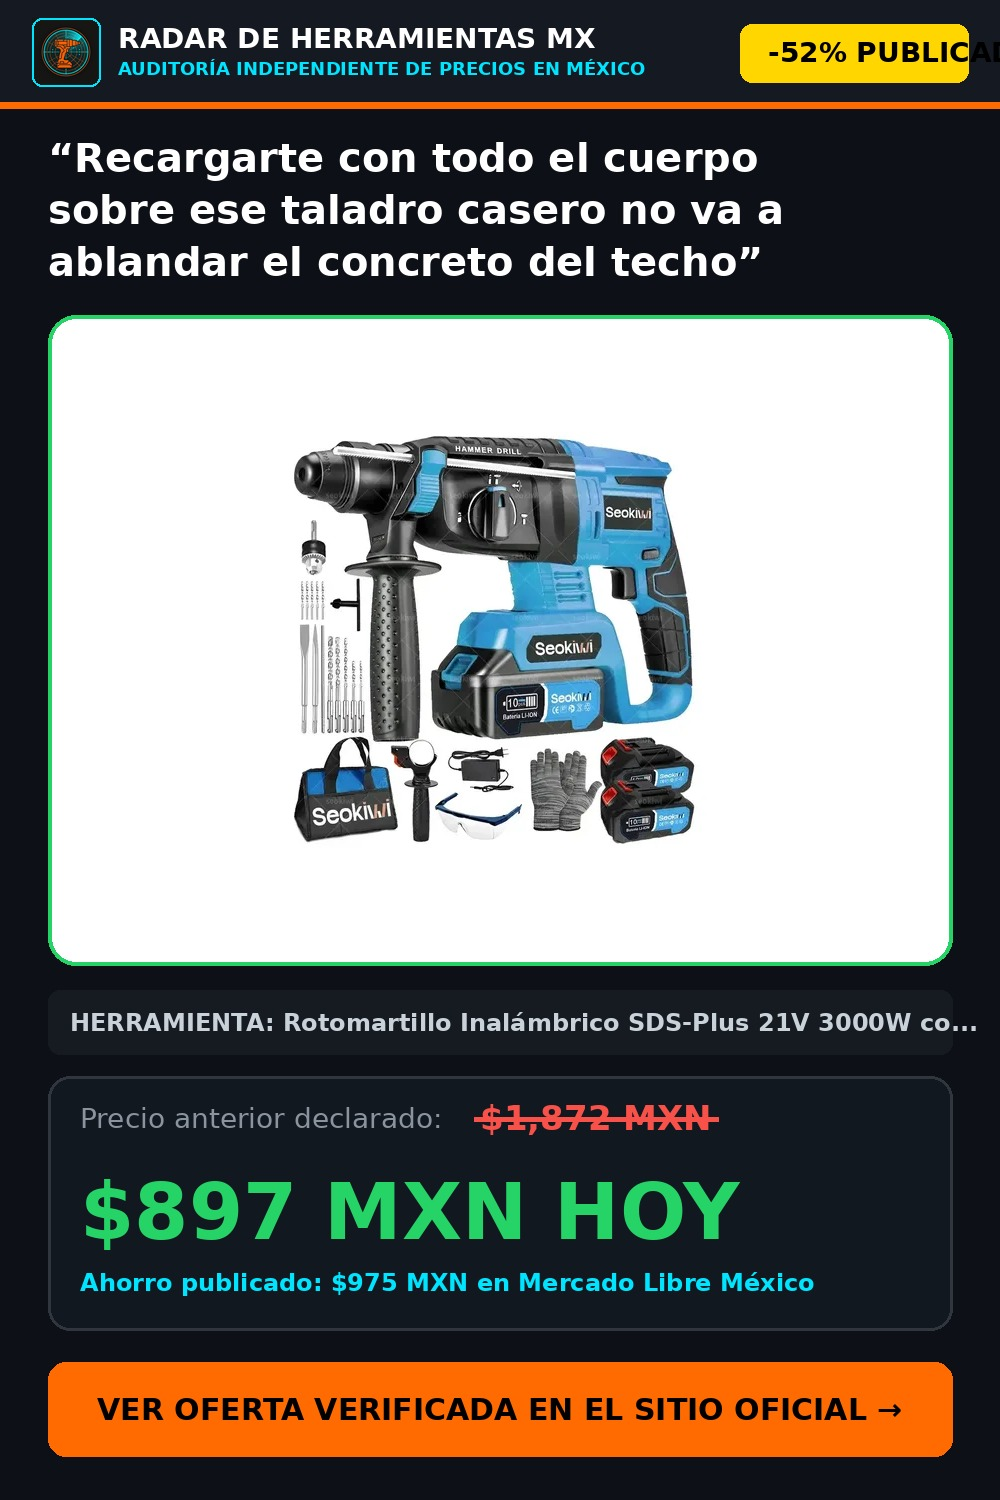
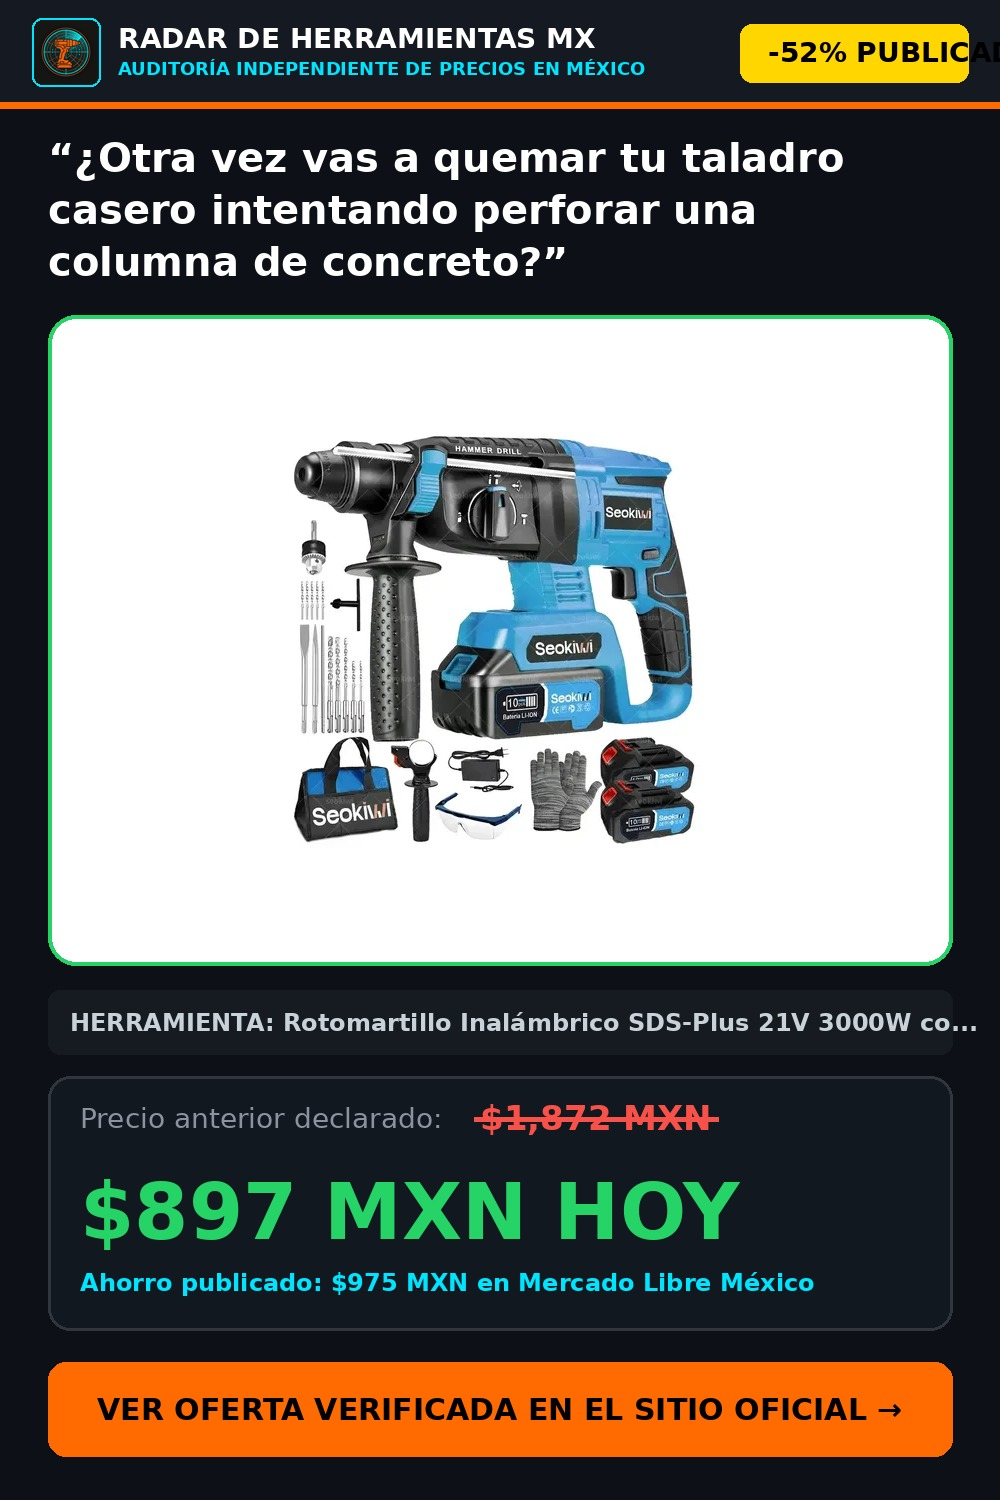
chore(portal): actualizar escaparate SEO, sitemap.xml y rss.xml

Changed region(s): [[0.062, 0.092, 0.837, 0.184]]

diff --git a/ofertas/rotomartillo-inalambrico-sds-plus-21v-3000w-con-2-baterias-mlm3486019046.html b/ofertas/rotomartillo-inalambrico-sds-plus-21v-3000w-con-2-baterias-mlm3486019046.html
@@ -4,16 +4,16 @@
   <meta charset="UTF-8">
   <meta name="viewport" content="width=device-width, initial-scale=1.0">
   <title>Rotomartillo Inalámbrico SDS-Plus 21V 3000W con 2 Baterías y Accesorios en Remate ($897 MXN | -52% PUBLICADO) — Radar Herramientas MX</title>
-  <meta name="description" content="Recargarte con todo el cuerpo sobre ese taladro casero no va a ablandar el concreto del techo. Baja de $1,872 a $897 MXN (-52% PUBLICADO). Precio registrado el 2026-11-10; confirma el actual en Mercado Libre.">
+  <meta name="description" content="¿Otra vez vas a quemar tu taladro casero intentando perforar una columna de concreto?. Baja de $1,872 a $897 MXN (-52% PUBLICADO). Precio registrado el 2026-11-10; confirma el actual en Mercado Libre.">
   <meta name="p:domain_verify" content="6c8cce62096e8179cbec3a3ea42580bd">
   <link rel="canonical" href="https://radar-herramientas-mx.github.io/ofertas/rotomartillo-inalambrico-sds-plus-21v-3000w-con-2-baterias-mlm3486019046.html">
   <meta property="og:type" content="product">
   <meta property="og:title" content="Rotomartillo Inalámbrico SDS-Plus 21V 3000W con 2 Baterías y Accesorios — Baja a $897 MXN (-52% PUBLICADO)">
-  <meta property="og:description" content="Recargarte con todo el cuerpo sobre ese taladro casero no va a ablandar el concreto del techo. Huele a carbones quemados, la broca ya se puso azul y apenas rascaste dos milímetros de losa. Para perforar trabes o ranurar tabique sin arrastrar cables por la escalera necesitas golpe neumático SDS-Plus real. Trae dos baterías de 21V y maletín de accesorios por 807 pesos, menos de lo que cuesta reemplazar el motor que estás por fundir.">
+  <meta property="og:description" content="¿Otra vez vas a quemar tu taladro casero intentando perforar una columna de concreto?. Guarda ya ese juguete humeante antes de que termines ensanchando el agujero del taquete con un clavo y un martillo. Para romper piedra o meter brocas SDS-Plus sin arrastrar extensiones por toda la azotea necesitas golpe real de 21V y dos baterías listas. Te cuesta menos de la mitad que en tienda y tus muñecas dejan de sufrir.">
   <meta property="og:image" content="https://http2.mlstatic.com/D_Q_NP_2X_938851-MLA107788266186_032026-AB.webp">
   <meta property="og:url" content="https://radar-herramientas-mx.github.io/ofertas/rotomartillo-inalambrico-sds-plus-21v-3000w-con-2-baterias-mlm3486019046.html">
   <meta name="twitter:card" content="summary_large_image">
-  <script type="application/ld+json">{"@context": "https://schema.org/", "@type": "Product", "name": "Rotomartillo Inalámbrico SDS-Plus 21V 3000W con 2 Baterías y Accesorios", "image": ["https://http2.mlstatic.com/D_Q_NP_2X_938851-MLA107788266186_032026-AB.webp"], "description": "Recargarte con todo el cuerpo sobre ese taladro casero no va a ablandar el concreto del techo. Huele a carbones quemados, la broca ya se puso azul y apenas rascaste dos milímetros de losa. Para perforar trabes o ranurar tabique sin arrastrar cables por la escalera necesitas golpe neumático SDS-Plus real. Trae dos baterías de 21V y maletín de accesorios por 807 pesos, menos de lo que cuesta reemplazar el motor que estás por fundir. Auditado contra 12 vendedores en México.", "sku": "MLM3486019046", "category": "Taller y Multiservicios", "offers": {"@type": "Offer", "url": "https://radar-herramientas-mx.github.io/ofertas/rotomartillo-inalambrico-sds-plus-21v-3000w-con-2-baterias-mlm3486019046.html", "priceCurrency": "MXN", "price": "897.00", "priceValidUntil": "2026-11-17", "availability": "https://schema.org/InStock", "itemCondition": "https://schema.org/NewCondition"}}</script>
+  <script type="application/ld+json">{"@context": "https://schema.org/", "@type": "Product", "name": "Rotomartillo Inalámbrico SDS-Plus 21V 3000W con 2 Baterías y Accesorios", "image": ["https://http2.mlstatic.com/D_Q_NP_2X_938851-MLA107788266186_032026-AB.webp"], "description": "¿Otra vez vas a quemar tu taladro casero intentando perforar una columna de concreto?. Guarda ya ese juguete humeante antes de que termines ensanchando el agujero del taquete con un clavo y un martillo. Para romper piedra o meter brocas SDS-Plus sin arrastrar extensiones por toda la azotea necesitas golpe real de 21V y dos baterías listas. Te cuesta menos de la mitad que en tienda y tus muñecas dejan de sufrir. Auditado contra 12 vendedores en México.", "sku": "MLM3486019046", "category": "Taller y Multiservicios", "offers": {"@type": "Offer", "url": "https://radar-herramientas-mx.github.io/ofertas/rotomartillo-inalambrico-sds-plus-21v-3000w-con-2-baterias-mlm3486019046.html", "priceCurrency": "MXN", "price": "897.00", "priceValidUntil": "2026-11-17", "availability": "https://schema.org/InStock", "itemCondition": "https://schema.org/NewCondition"}}</script>
   <style>
     * { box-sizing: border-box; margin: 0; padding: 0; font-family: -apple-system, BlinkMacSystemFont, "Segoe UI", Roboto, Helvetica, Arial, sans-serif; }
     body { background: #0d0f12; color: #e6edf3; line-height: 1.55; padding-bottom: 60px; }
@@ -87,8 +87,8 @@
 
         <div>
           <div class="editorial-box">
-            <h2>“Recargarte con todo el cuerpo sobre ese taladro casero no va a ablandar el concreto del techo”</h2>
-            <p>Huele a carbones quemados, la broca ya se puso azul y apenas rascaste dos milímetros de losa. Para perforar trabes o ranurar tabique sin arrastrar cables por la escalera necesitas golpe neumático SDS-Plus real. Trae dos baterías de 21V y maletín de accesorios por 807 pesos, menos de lo que cuesta reemplazar el motor que estás por fundir.</p>
+            <h2>“¿Otra vez vas a quemar tu taladro casero intentando perforar una columna de concreto?”</h2>
+            <p>Guarda ya ese juguete humeante antes de que termines ensanchando el agujero del taquete con un clavo y un martillo. Para romper piedra o meter brocas SDS-Plus sin arrastrar extensiones por toda la azotea necesitas golpe real de 21V y dos baterías listas. Te cuesta menos de la mitad que en tienda y tus muñecas dejan de sufrir.</p>
           </div>
 
           <div class="price-card">

diff --git a/index.html b/index.html
@@ -108,7 +108,7 @@
       <div id="auditResult" class="audit-result"></div>
 
       <div class="share-bar">
-        <span>⚡ Última sincronización del radar: 2026-11-10 11:08 CST</span>
+        <span>⚡ Última sincronización del radar: 2026-11-10 11:23 CST</span>
         <a href="https://wa.me/?text=Antes%20de%20comprar%20en%20Mercado%20Libre%20este%20Buen%20Fin%2C%20pega%20el%20link%20aqu%C3%AD%20para%20revisar%20si%20inflaron%20el%20precio%3A%20https%3A%2F%2Fradar-herramientas-mx.github.io%2F" target="_blank" rel="noopener" class="wa-share">
           📲 Compartir este Verificador por WhatsApp →
         </a>
@@ -130,7 +130,7 @@
 
   <main class="feed-grid" id="dealsGrid">
     
-                <article class="deal-card" data-cat="Taller y Multiservicios" data-search="rotomartillo inalámbrico sds-plus 21v 3000w con 2 baterías y accesorios taller y multiservicios recargarte con todo el cuerpo sobre ese taladro casero no va a ablandar el concreto del techo">
+                <article class="deal-card" data-cat="Taller y Multiservicios" data-search="rotomartillo inalámbrico sds-plus 21v 3000w con 2 baterías y accesorios taller y multiservicios ¿otra vez vas a quemar tu taladro casero intentando perforar una columna de concreto?">
                   <div class="card-top">
                     <div class="card-img-wrap">
                       <a href="ofertas/rotomartillo-inalambrico-sds-plus-21v-3000w-con-2-baterias-mlm3486019046.html">
@@ -143,8 +143,8 @@
                     </div>
                     <div class="card-meta">
                       <span class="card-cat">Taller y Multiservicios</span>
-                      <h2><a href="ofertas/rotomartillo-inalambrico-sds-plus-21v-3000w-con-2-baterias-mlm3486019046.html">“Recargarte con todo el cuerpo sobre ese taladro casero no va a ablandar el concreto del techo”</a></h2>
-                      <p class="card-story">Huele a carbones quemados, la broca ya se puso azul y apenas rascaste dos milímetros de losa. Para perforar trabes o ranurar tabique sin arrastrar cables por la escalera necesitas golpe neumático SDS-Plus real. Trae dos baterías de 21V y maletín de accesorios por 807 pesos, menos de lo que cuesta reemplazar el motor que estás por fundir.</p>
+                      <h2><a href="ofertas/rotomartillo-inalambrico-sds-plus-21v-3000w-con-2-baterias-mlm3486019046.html">“¿Otra vez vas a quemar tu taladro casero intentando perforar una columna de concreto?”</a></h2>
+                      <p class="card-story">Guarda ya ese juguete humeante antes de que termines ensanchando el agujero del taquete con un clavo y un martillo. Para romper piedra o meter brocas SDS-Plus sin arrastrar extensiones por toda la azotea necesitas golpe real de 21V y dos baterías listas. Te cuesta menos de la mitad que en tienda y tus muñecas dejan de sufrir.</p>
                     </div>
                   </div>
 
@@ -214,7 +214,7 @@
   </footer>
 
   <script>
-    const AUDITED_DB = [{"id": "MLM3486019046", "title": "Rotomartillo Inalámbrico SDS-Plus 21V 3000W con 2 Baterías y Accesorios", "price": 897.0, "ref_price": 1872.0, "disc": 52.1, "url": "https://www.mercadolibre.com.mx/rotomartillo-inalambrico-sds-plus-21v-3000w-con-2-baterias-y-accesorios/p/MLM44348365?pdp_filters=item_id:MLM3486019046&matt_tool=80786860&matt_word=mejorahorita#wid=MLM3486019046", "img": "https://http2.mlstatic.com/D_Q_NP_2X_938851-MLA107788266186_032026-AB.webp", "headline": "Recargarte con todo el cuerpo sobre ese taladro casero no va a ablandar el concreto del techo"}, {"id": "MLM3071820289", "title": "Taladro Percutor Atornillador Nalámbrico Llaves De Impacto Rojo", "price": 799.0, "ref_price": 2899.0, "disc": 72.4, "url": "https://www.mercadolibre.com.mx/taladro-percutor-atornillador-nalambrico-llaves-de-impacto/up/MLMU4189561145?pdp_filters=item_id:MLM3071820289&matt_tool=80786860&matt_word=mejorahorita#wid=MLM3071820289", "img": "https://http2.mlstatic.com/D_Q_NP_2X_697760-MLM118171709757_092026-AB.webp", "headline": "Veinticinco minutos desenredando la extensión naranja para meter apenas dos taquetes en el patio"}];
+    const AUDITED_DB = [{"id": "MLM3486019046", "title": "Rotomartillo Inalámbrico SDS-Plus 21V 3000W con 2 Baterías y Accesorios", "price": 897.0, "ref_price": 1872.0, "disc": 52.1, "url": "https://www.mercadolibre.com.mx/rotomartillo-inalambrico-sds-plus-21v-3000w-con-2-baterias-y-accesorios/p/MLM44348365?pdp_filters=item_id:MLM3486019046&matt_tool=80786860&matt_word=mejorahorita#wid=MLM3486019046", "img": "https://http2.mlstatic.com/D_Q_NP_2X_938851-MLA107788266186_032026-AB.webp", "headline": "¿Otra vez vas a quemar tu taladro casero intentando perforar una columna de concreto?"}, {"id": "MLM3071820289", "title": "Taladro Percutor Atornillador Nalámbrico Llaves De Impacto Rojo", "price": 799.0, "ref_price": 2899.0, "disc": 72.4, "url": "https://www.mercadolibre.com.mx/taladro-percutor-atornillador-nalambrico-llaves-de-impacto/up/MLMU4189561145?pdp_filters=item_id:MLM3071820289&matt_tool=80786860&matt_word=mejorahorita#wid=MLM3071820289", "img": "https://http2.mlstatic.com/D_Q_NP_2X_697760-MLM118171709757_092026-AB.webp", "headline": "Veinticinco minutos desenredando la extensión naranja para meter apenas dos taquetes en el patio"}];
     const AFF_TAG = "80786860";
     const AFF_WORD = "mejorahorita";
 
